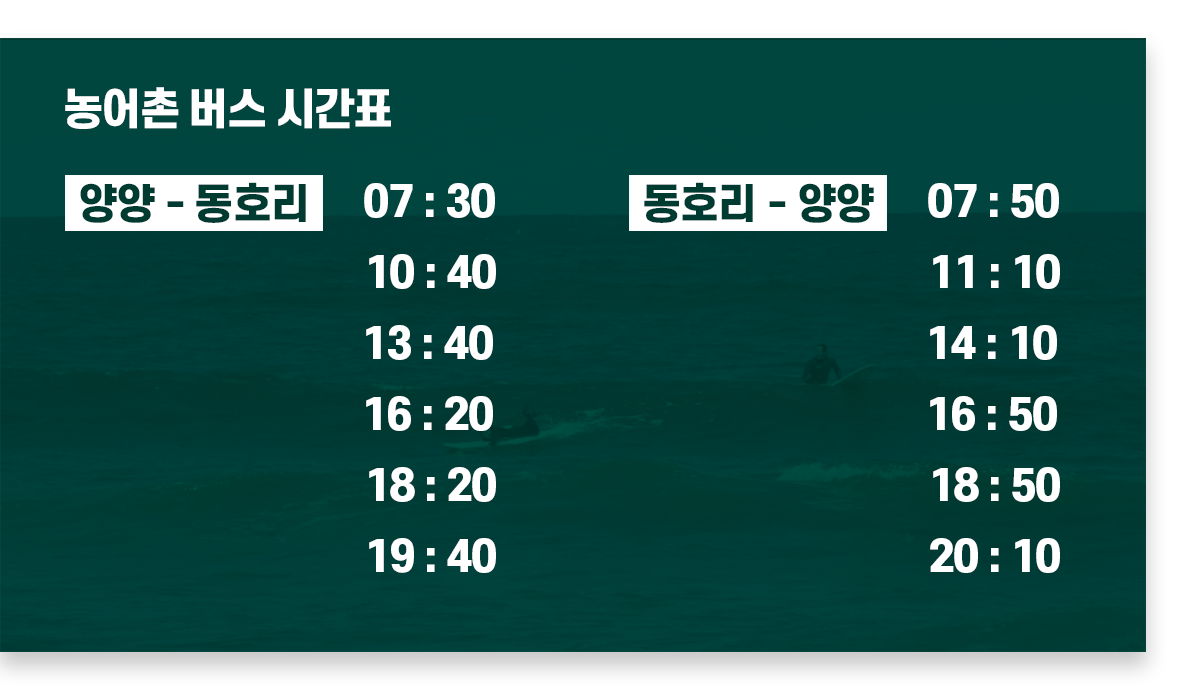
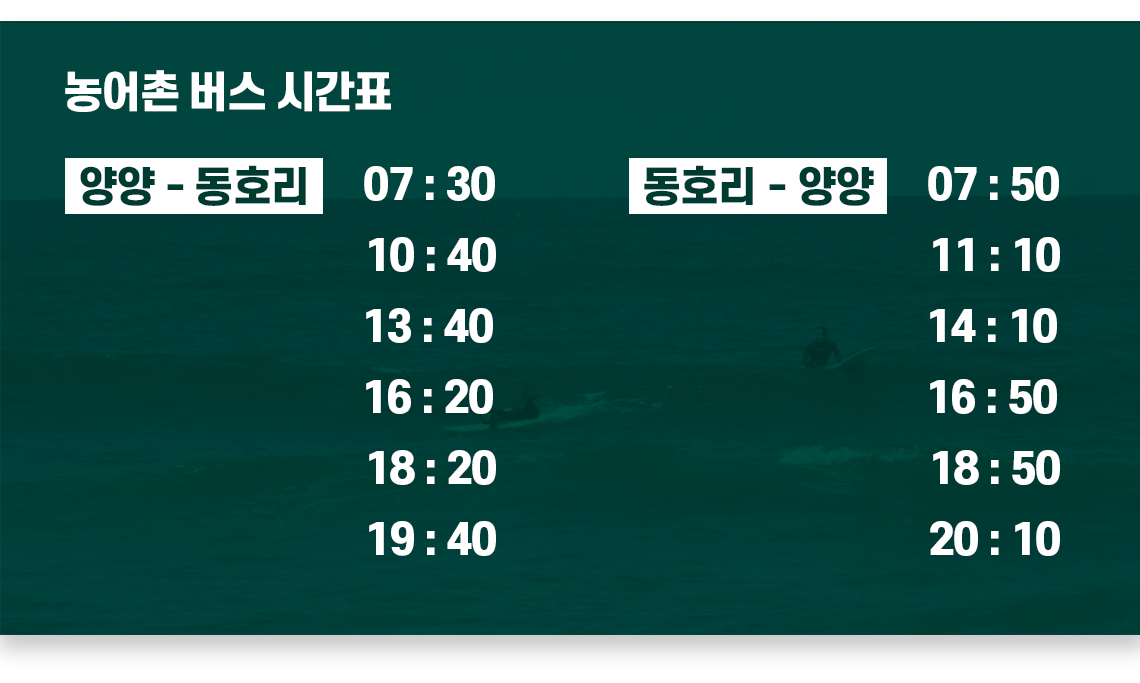
Update the bus time image

diff --git a/index.html b/index.html
@@ -767,7 +767,15 @@
 				      </strong>
 				      <img src="images/bus.png" class="bus">  &nbsp; &nbsp;<strong><font size="+2">대중교통 이용시</font></strong><br><br>
 				      <strong>1. 강남(동서울)고속버스터미널 &rarr; 양양터미널 &rarr; 농어촌 버스(동호리행)<br></strong>
-				      <img src="images/bus_time.png" class="bus_time"><br>
+				    </div>
+				  </div>
+				  <div class="row">
+				  	<div class="col col-md-9">
+				      <img src="images/bus_time.png" class="bus_time">
+				    </div>
+				  </div>
+				  <div class="row">
+				  	<div class="col">
 				      <strong>** 농어촌 버스 대신 택시 이용시 10분 1만원 내외(택시가 없을 경우 샵으로 연락주시면 픽업 가능)</strong><br><br>
 				      <strong>2. 강남(동서울)고속버스터미널 &rarr; 하조대 정류소 &rarr; 동호해변 택시5분(택시가 없을 경우 샵으로 연락주시면 픽업 가능)<br></strong>
 				      <br/>

diff --git a/style/mobile_main.css b/style/mobile_main.css
@@ -56,7 +56,7 @@ body{background-color:#fff; background-image:url(../images/bg.png); }
 		.map{width: 5%;}
 		.car{width: 10%;}
 		.bus{width: 10%;}
-		.bus_time{width: 90%;}
+		.bus_time{width: 100%;}
 
 
 

diff --git a/style/pc_main.css b/style/pc_main.css
@@ -115,7 +115,7 @@
 		.map{width: 1.5%;}
 		.car{width: 4%;}
 		.bus{width: 3%;}
-		.bus_time{width: 70%;}
+		.bus_time{width: 100%;}
 			
 		#faq {font-display: swap;}				
 		
